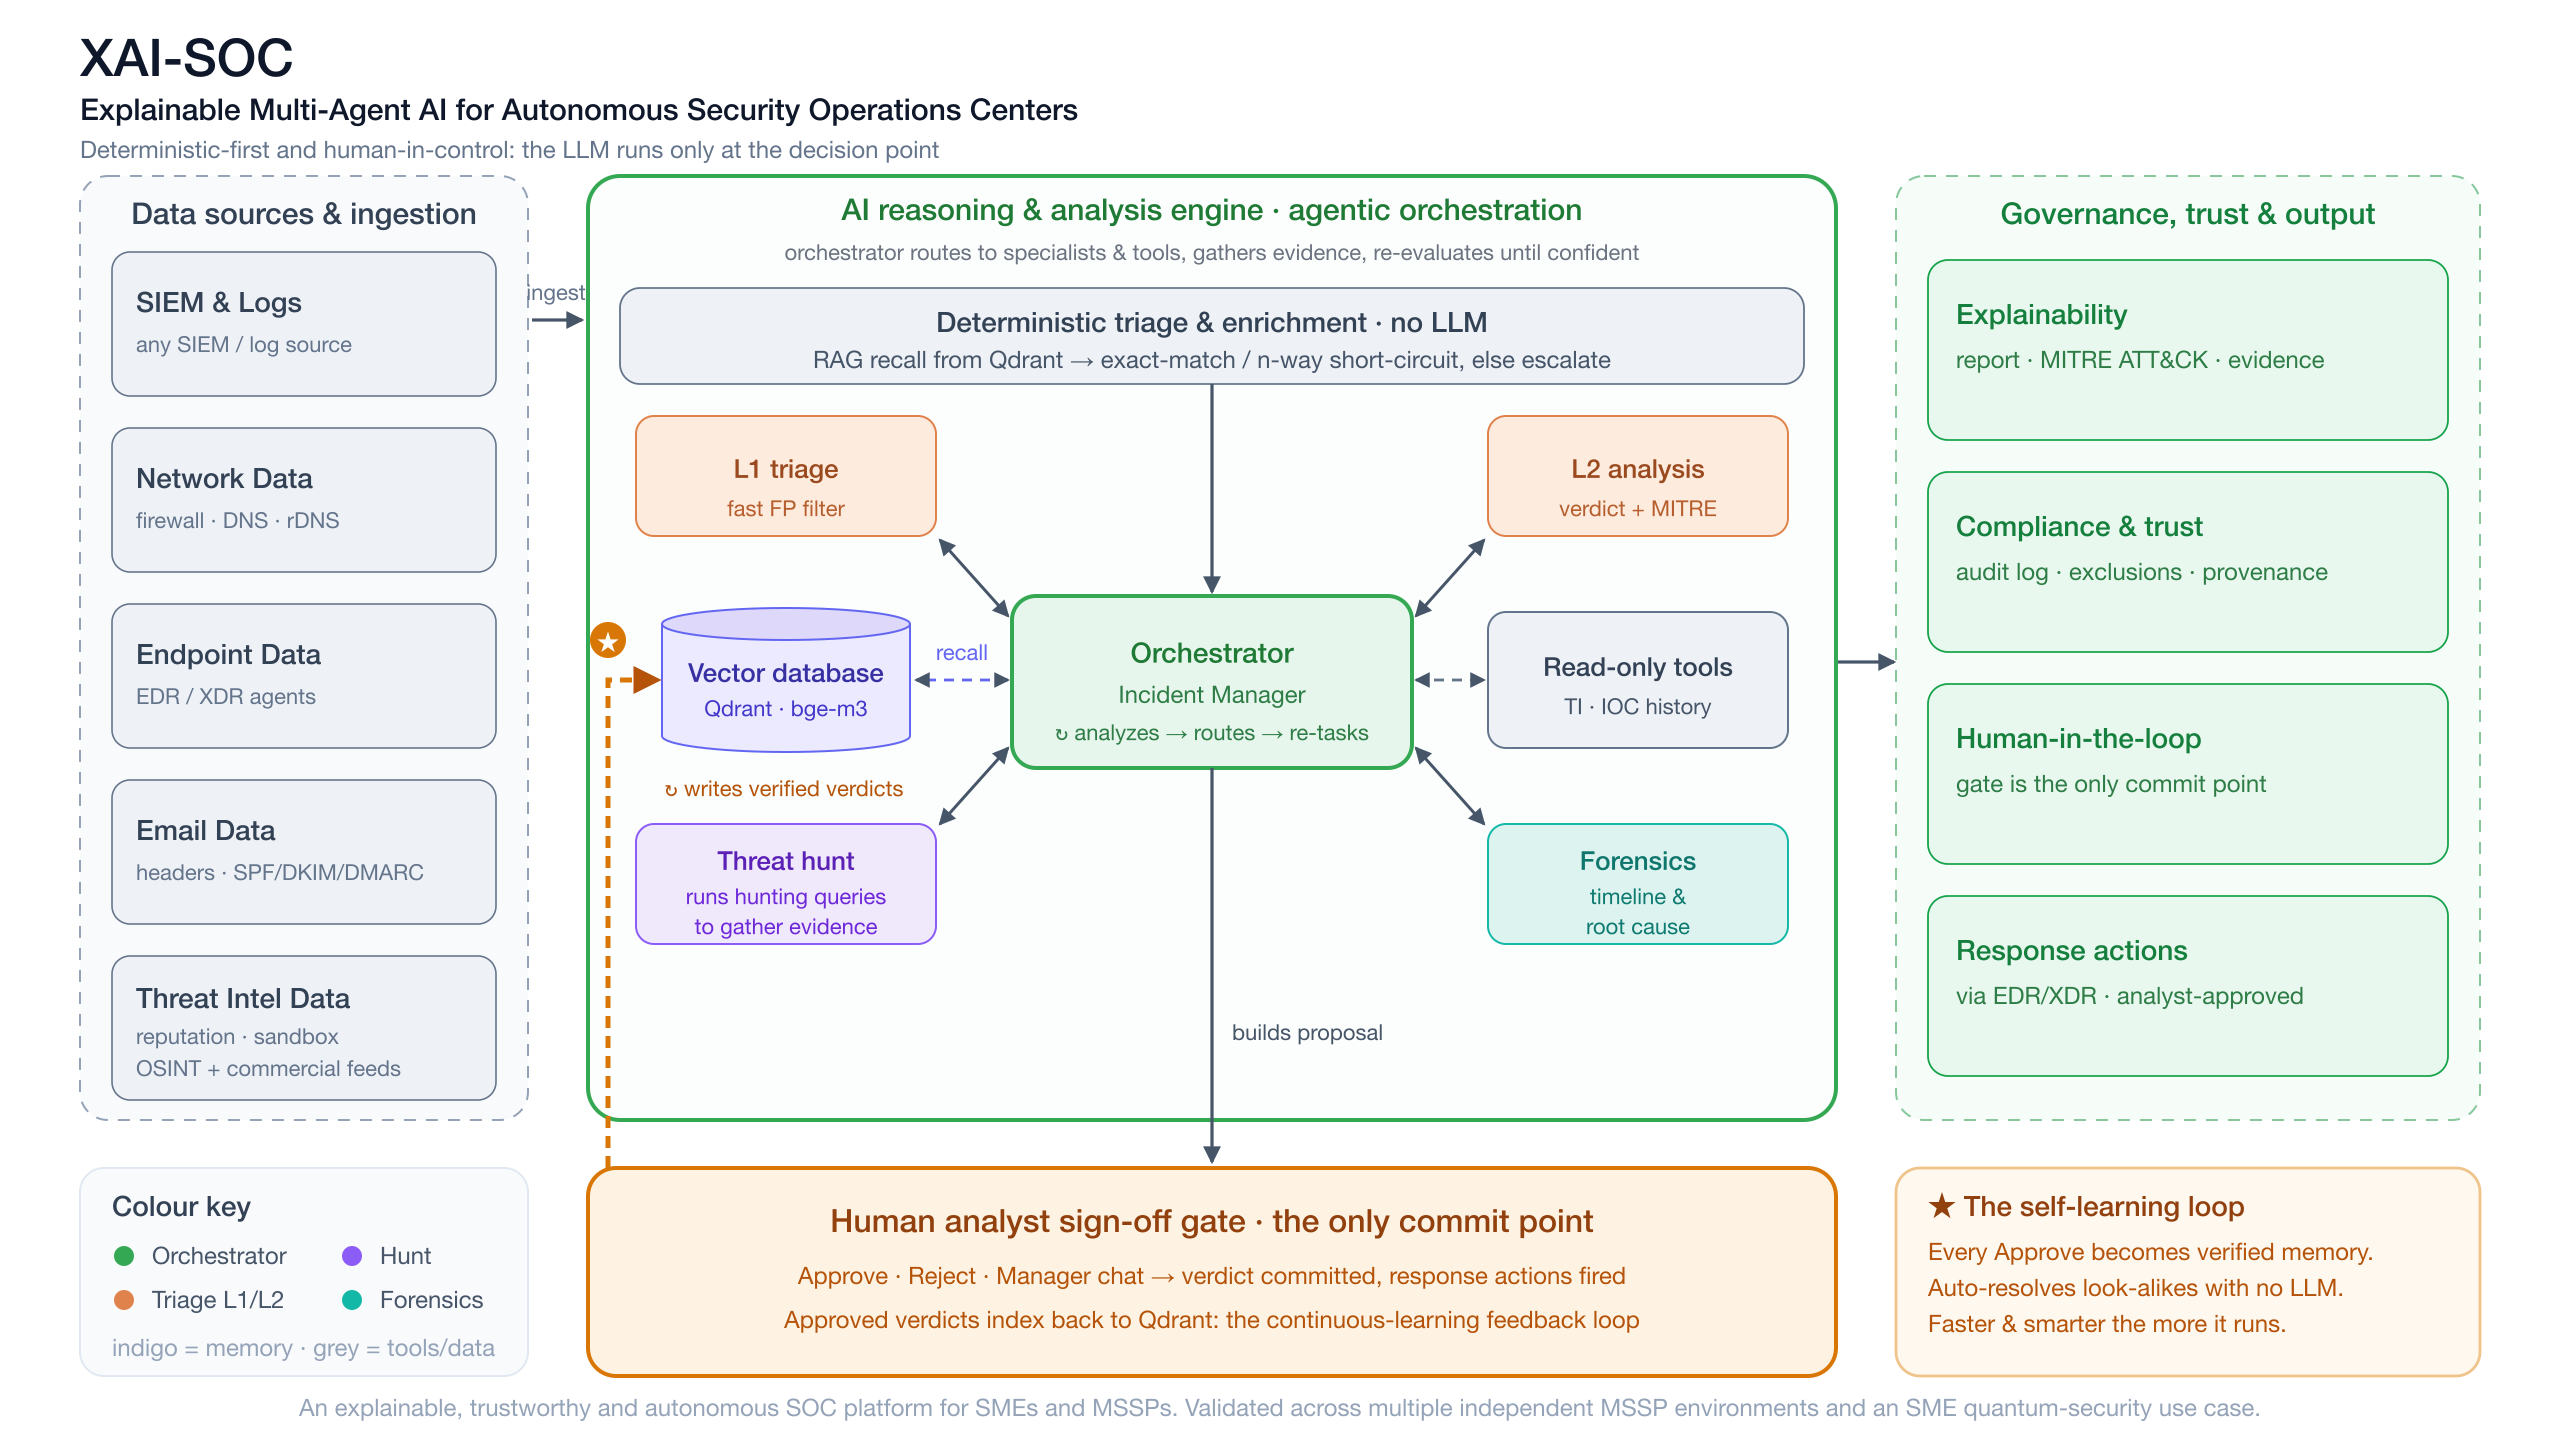
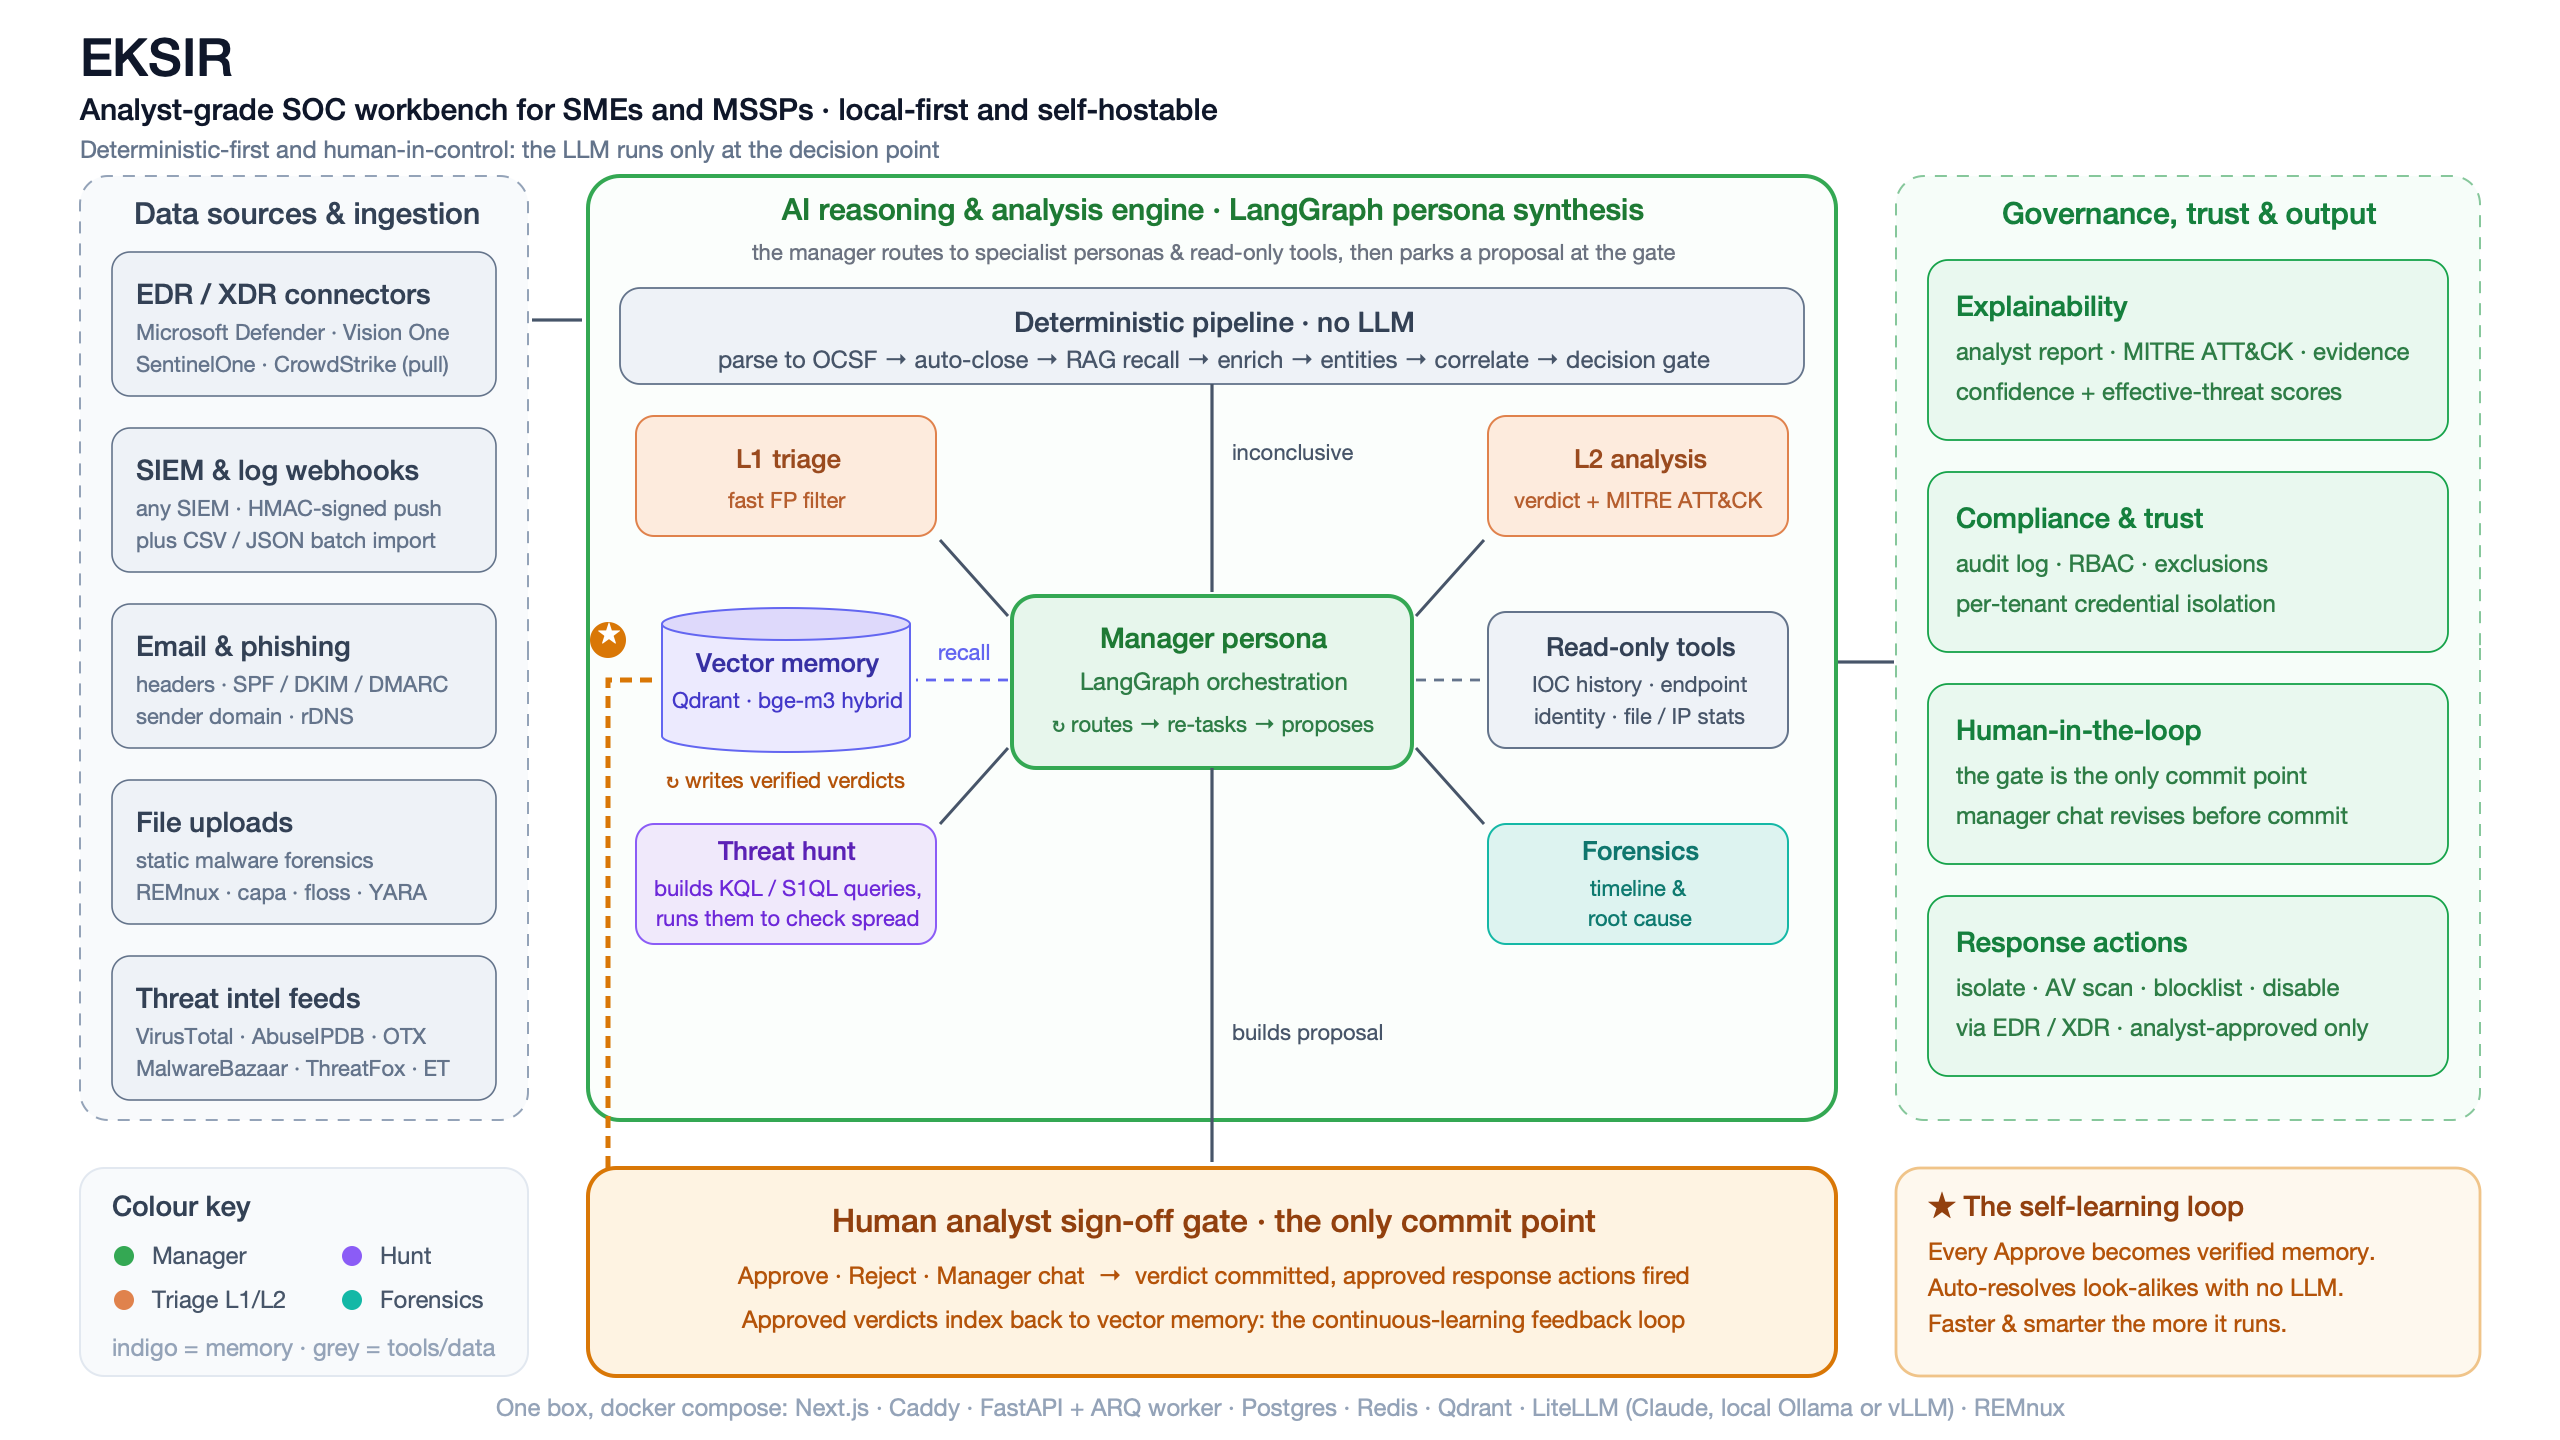
docs(diagrams): refresh architecture graphs + fix the silently-passing pip-audit job (#64)
* docs(diagrams): refresh architecture graphs against the current codebase

The three diagram sources had drifted badly. They still described the
pre-persona platform: a "Tier-1 fast / Tier-2 deep + hallucination check"
LLM step, the vendored legacy parsers, and no human gate at all. Missing
entirely were the agent personas, LangGraph, OCSF normalization, the
sign-off gate, pull connectors, EDR/XDR integrations, entity resolution,
correlation, deobfuscation, scoring, reports and RBAC.

architecture-components.mmd
  Real topology: four ingest paths (HMAC webhooks, cron pull connectors,
  batch import, file upload), the frontend split into Ops / Management /
  Admin, the backend split into the deterministic pipeline and the
  LangGraph persona subgraph with the sign-off gate as its own node,
  per-tenant EDR/XDR APIs, the read-only LLM tool registry, BYOK and cost
  tracking on LiteLLM, and docker-socket-proxy.

rag-pipeline-sequence.mmd
  Now walks the actual run_pipeline step list (parse, auto_close_pre,
  dedup, enrich, entities, correlate, decision), then the LangGraph
  synthesis with the pre-L2 Microsoft prefetch and tool calls, then the
  gate: Approve commits the verdict, indexes to Qdrant and fires only the
  analyst-checked actions; Reject requeues or drops to review.

isoc-architecture-overview.svg
  Rebranded from the retired XAI-SOC project name to EKSIR, and realigned
  rather than just renamed: real ingest sources, the seven deterministic
[…]

diff --git a/backend/migrations/versions/20260708_1200_0012_entities.py b/backend/migrations/versions/20260708_1200_0012_entities.py
@@ -66,8 +66,7 @@ def upgrade() -> None:
         "ON incident_entities (incident_id)"
     )
     op.execute(
-        "CREATE INDEX IF NOT EXISTS ix_incident_entities_entity_id "
-        "ON incident_entities (entity_id)"
+        "CREATE INDEX IF NOT EXISTS ix_incident_entities_entity_id ON incident_entities (entity_id)"
     )
 
 

diff --git a/docs/ADR-0002-local-llm-and-ops.md b/docs/ADR-0002-local-llm-and-ops.md
@@ -74,5 +74,10 @@ hits Qdrant via `QDRANT_URL`. The `llm_config` table is read only by
   token-budget guard in `client.py`.
 
 ## Reference diagrams
-- `docs/architecture-components.png` — full component/service topology
-- `docs/rag-pipeline-sequence.png` — alert RAG pipeline sequence
+Mermaid sources live next to the renders (`*.mmd`); each carries the regeneration
+command in its header comment. Last reviewed against the code on **2026-09-04**.
+- `docs/architecture-components.png` / `.mmd` — full component/service topology
+- `docs/rag-pipeline-sequence.png` / `.mmd` — alert pipeline, persona synthesis, human gate
+- `docs/isoc-architecture-overview.svg` / `.png` — hand-drawn conceptual overview (README figure).
+  The SVG is the source; regenerate the PNG with
+  `sips -s format png -z 1440 2560 docs/isoc-architecture-overview.svg --out docs/isoc-architecture-overview.png`.

diff --git a/docs/DESIGN.md b/docs/DESIGN.md
@@ -10,7 +10,9 @@
 > not the "what".** For the current implemented state, **`docs/PIPELINE.md` is
 > canonical**; see also **ADR-0002** (local-LLM & ops), **ADR-0003** (EDR
 > integrations + gate tools), **ADR-0006** (connector framework), and the diagrams
-> `docs/architecture-components.png` + `docs/rag-pipeline-sequence.png`.
+> `docs/architecture-components.png` + `docs/rag-pipeline-sequence.png`
+> (**both refreshed against the code on 2026-09-04**, so where the ASCII sketch
+> below and the rendered diagrams disagree, the diagrams are right).
 >
 > **What changed since this was written (trust this list over the body below):**
 > - **LLM default:** the shipped config routes **both tiers to Claude** via LiteLLM

diff --git a/docs/PIPELINE.md b/docs/PIPELINE.md
@@ -12,7 +12,9 @@ three are `_step_entities`/`_step_correlate`/`_step_decision` in
 below.
 
 > **Diagram:** see `docs/rag-pipeline-sequence.png` for the full sequence,
-> including the RAG retrieval and feedback-loop touch-points.
+> including the RAG retrieval, the LangGraph persona graph, the human sign-off
+> gate and the feedback-loop touch-points. Source: `docs/rag-pipeline-sequence.mmd`,
+> last reviewed against the code on **2026-09-04**.
 > **Default LLM:** the shipped config routes both tiers to **Claude** via LiteLLM
 > (`isoc-deep` → `claude-sonnet-4-5`, `isoc-fast` → `claude-haiku-4-5`; see
 > `config/litellm.config.yaml`). A local model (Seneca 8B via Ollama) or vLLM are
